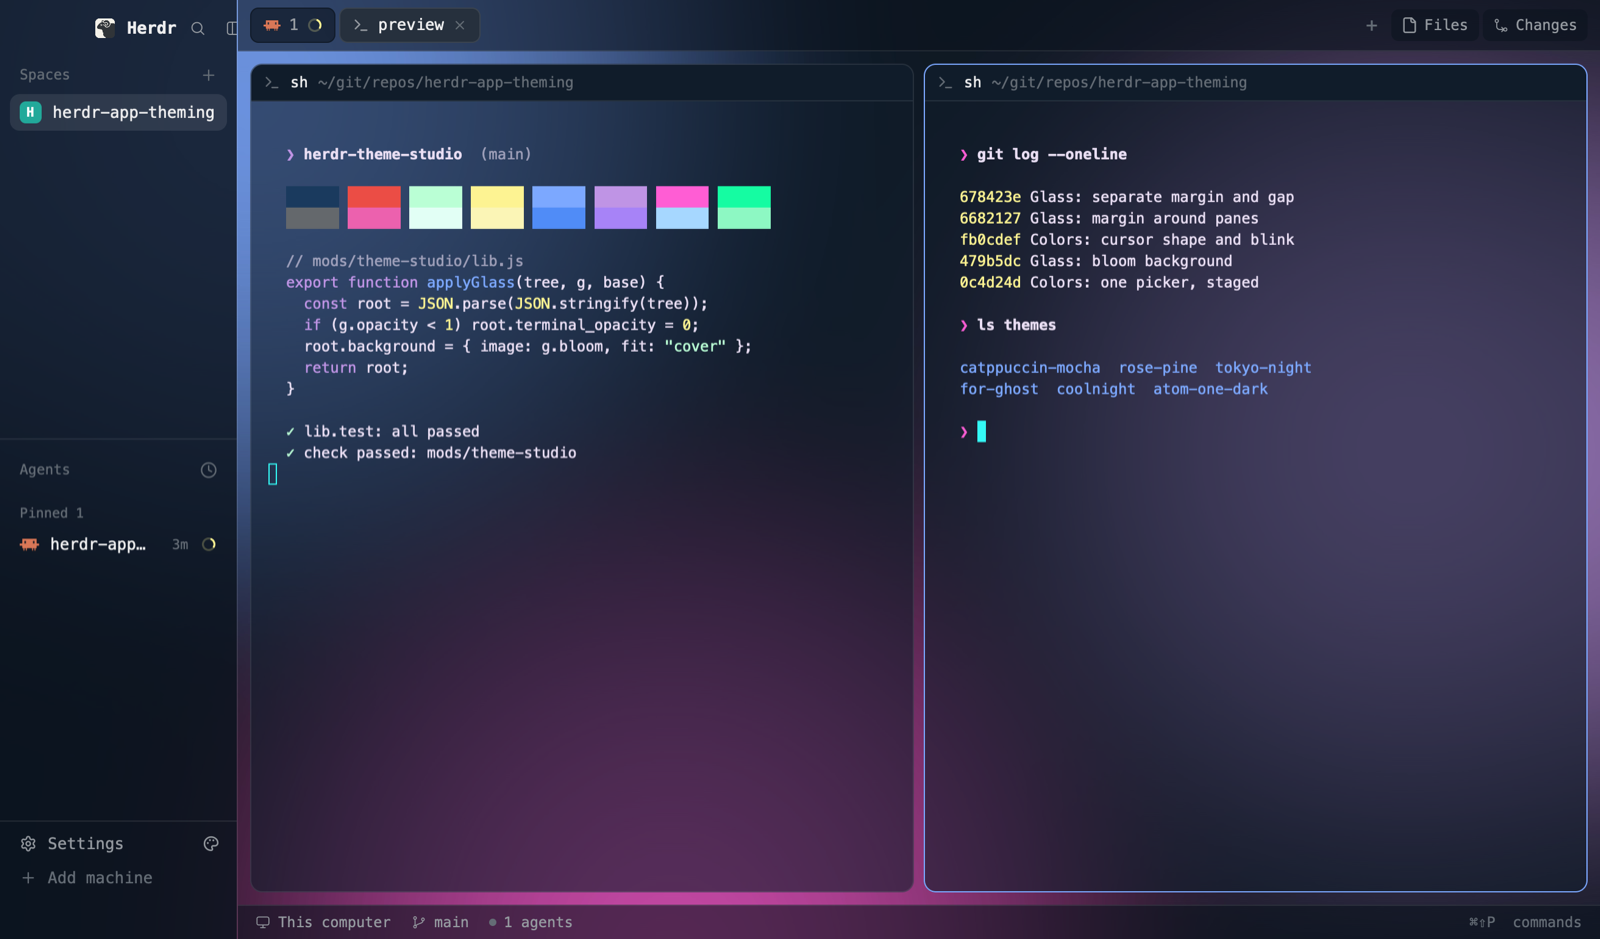
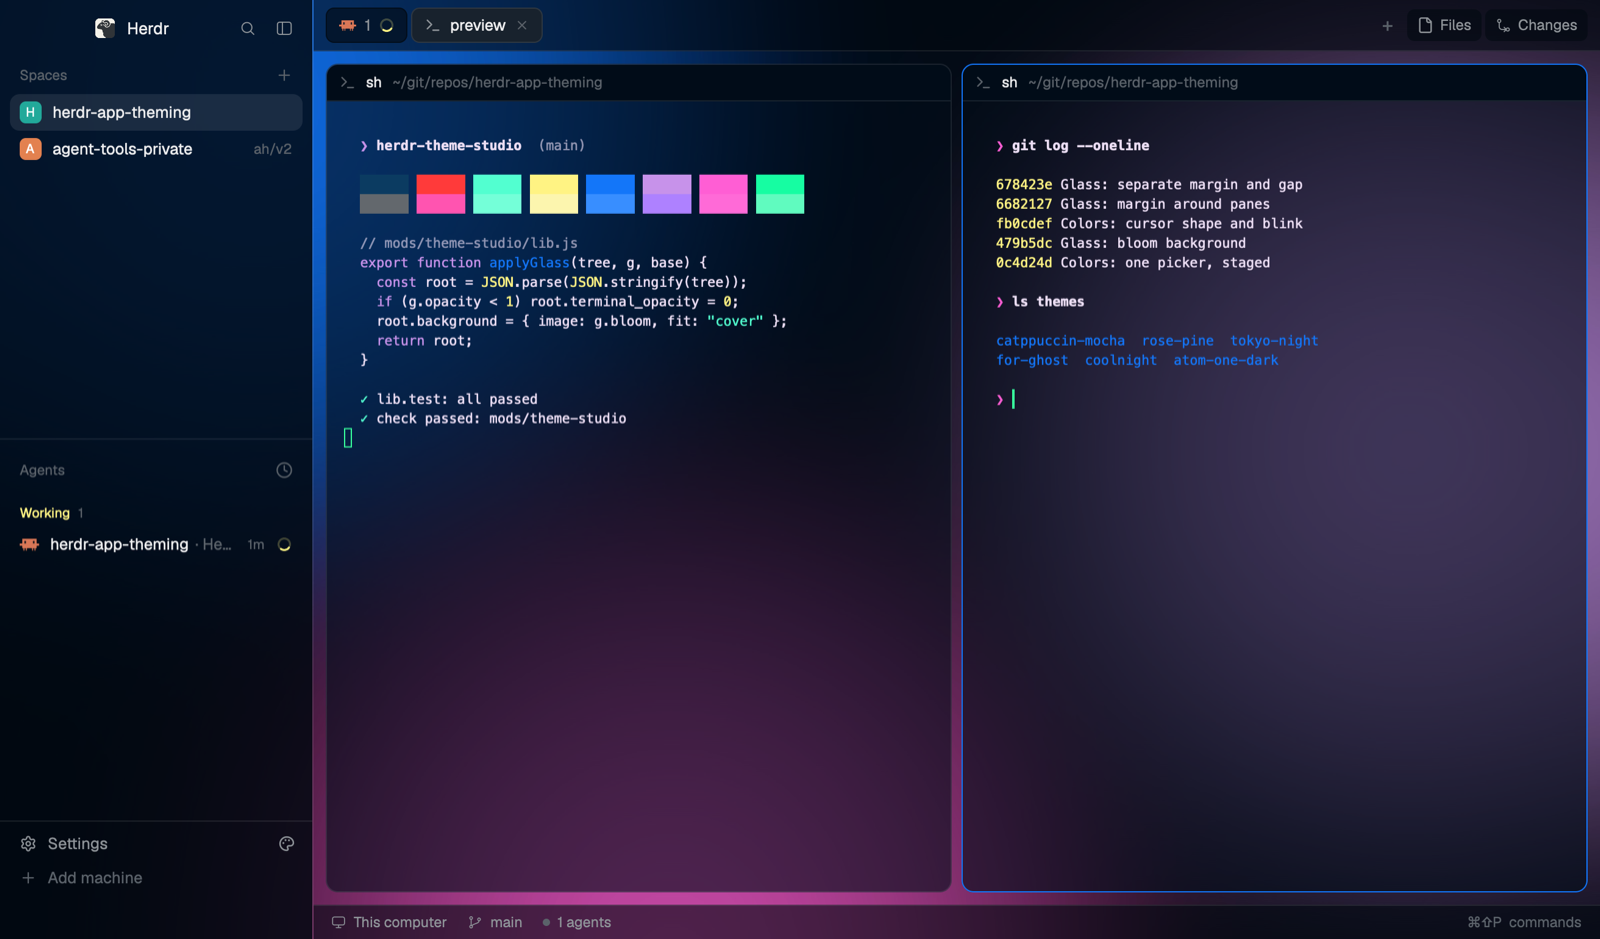
New screenshots: Bloom glass in the editor, plus the manager, the Colors editor and the window in three themes
Also clears the editor's stale "Opening…" status.

Claude-Session: https://claude.ai/code/session_01C6jtLLzGpXcnf5MvYMBh4w

diff --git a/mods/theme-studio/main.js b/mods/theme-studio/main.js
@@ -724,7 +724,7 @@ export default class ThemeStudio extends View {
     if (!this.isOwn(name)) return this.say(`${name} isn't yours to change: copy it first`, "error", cx);
     const open = async () => {
       this.editing = name; setShared(K.editing, name);
-      this.view = "edit"; this.ask = null; this.leaving = false;
+      this.view = "edit"; this.ask = null; this.leaving = false; this.msg = null;
       cx.spawn((cx) => this.checkCursorHook(cx));
     };
     if (settings().theme === name && !this.themeDraft) return cx.spawn((cx) => this.guard(cx, "Opening", open));

diff --git a/README.md b/README.md
@@ -7,9 +7,9 @@ build it from scratch.
 
 ![Theme Studio](preview.png)
 
-| Bloom glass, Studio closed | Colors and cursor | Themes |
+| Theme manager (Tokyo Night) | Editing colors (Rosé Pine) | Bloom glass, Studio closed (coolnight) |
 |---|---|---|
-| ![Bloom glass](docs/screenshots/window.png) | ![Colors tab](docs/screenshots/colors.png) | ![Themes tab](docs/screenshots/themes.png) |
+| ![Theme manager](docs/screenshots/manager.png) | ![Editor, Colors tab](docs/screenshots/editor.png) | ![Bloom glass](docs/screenshots/window.png) |
 
 ## Install
 
